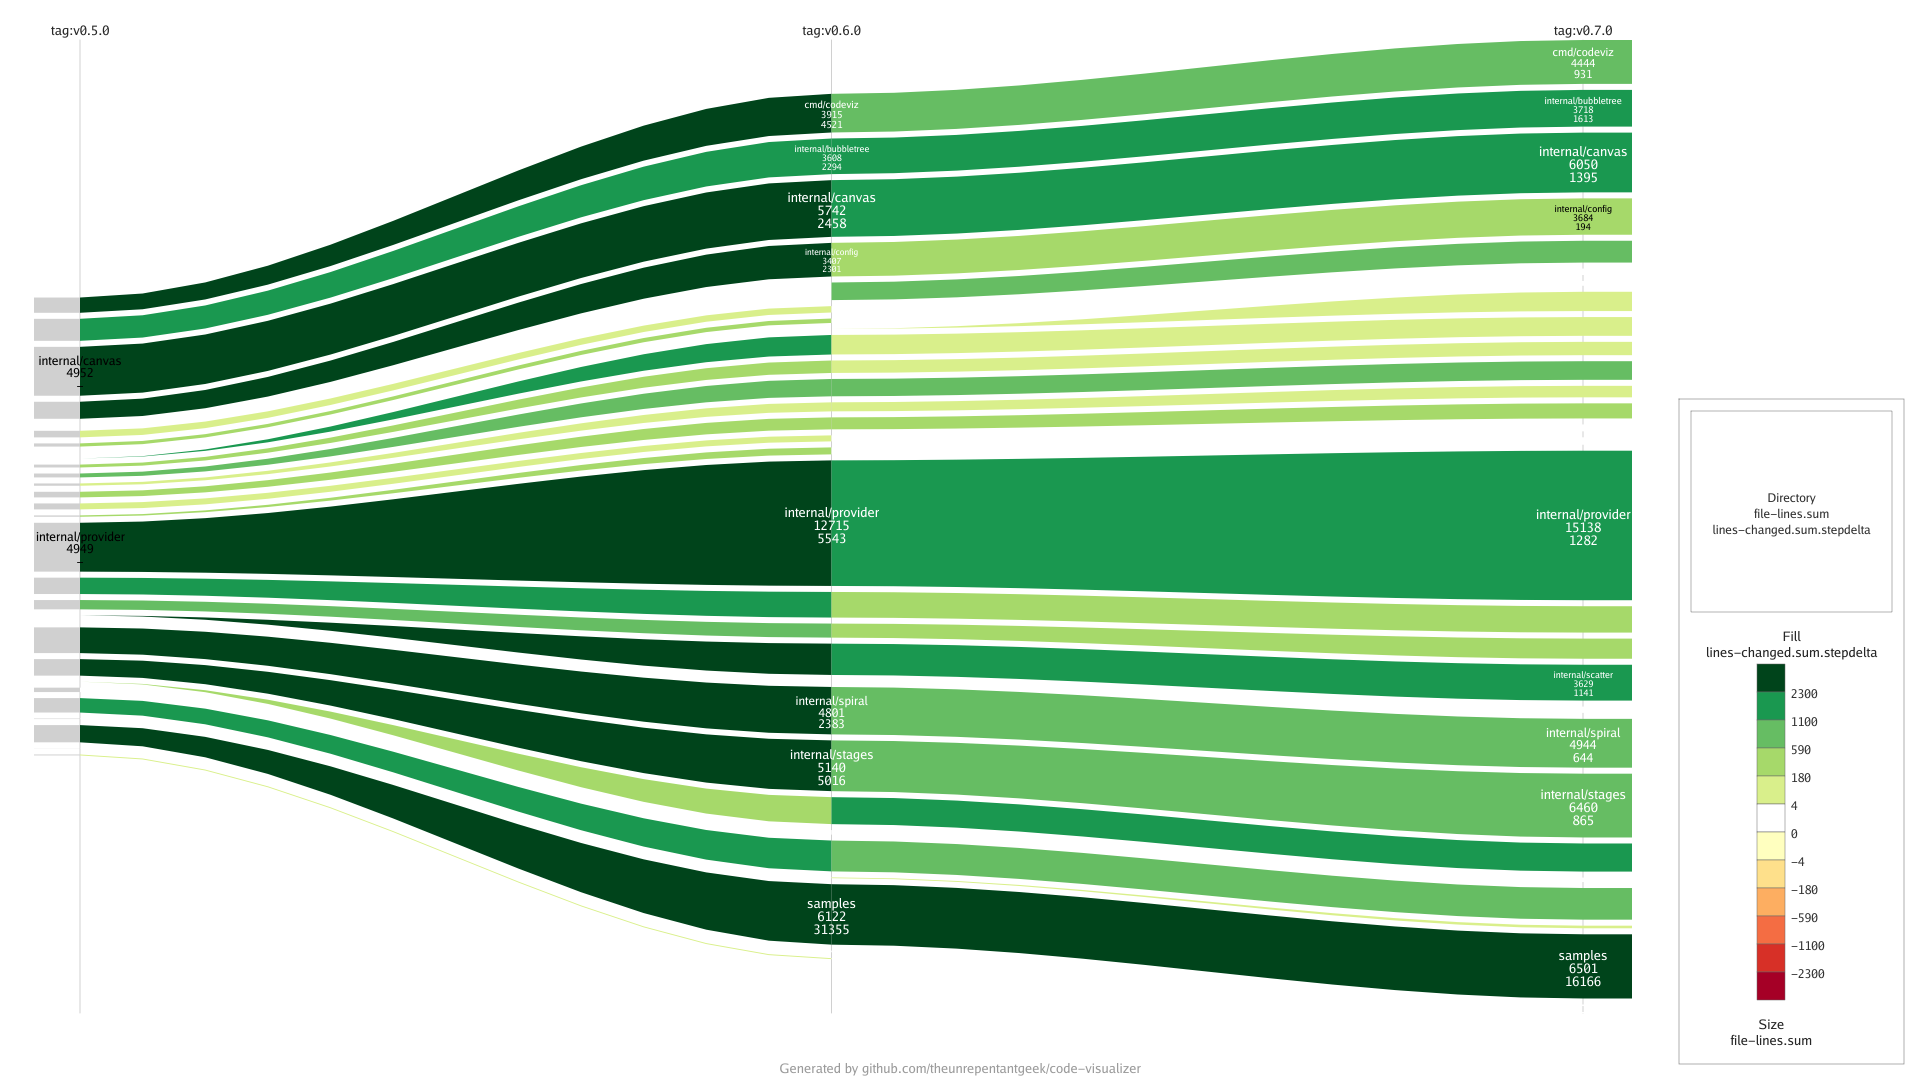
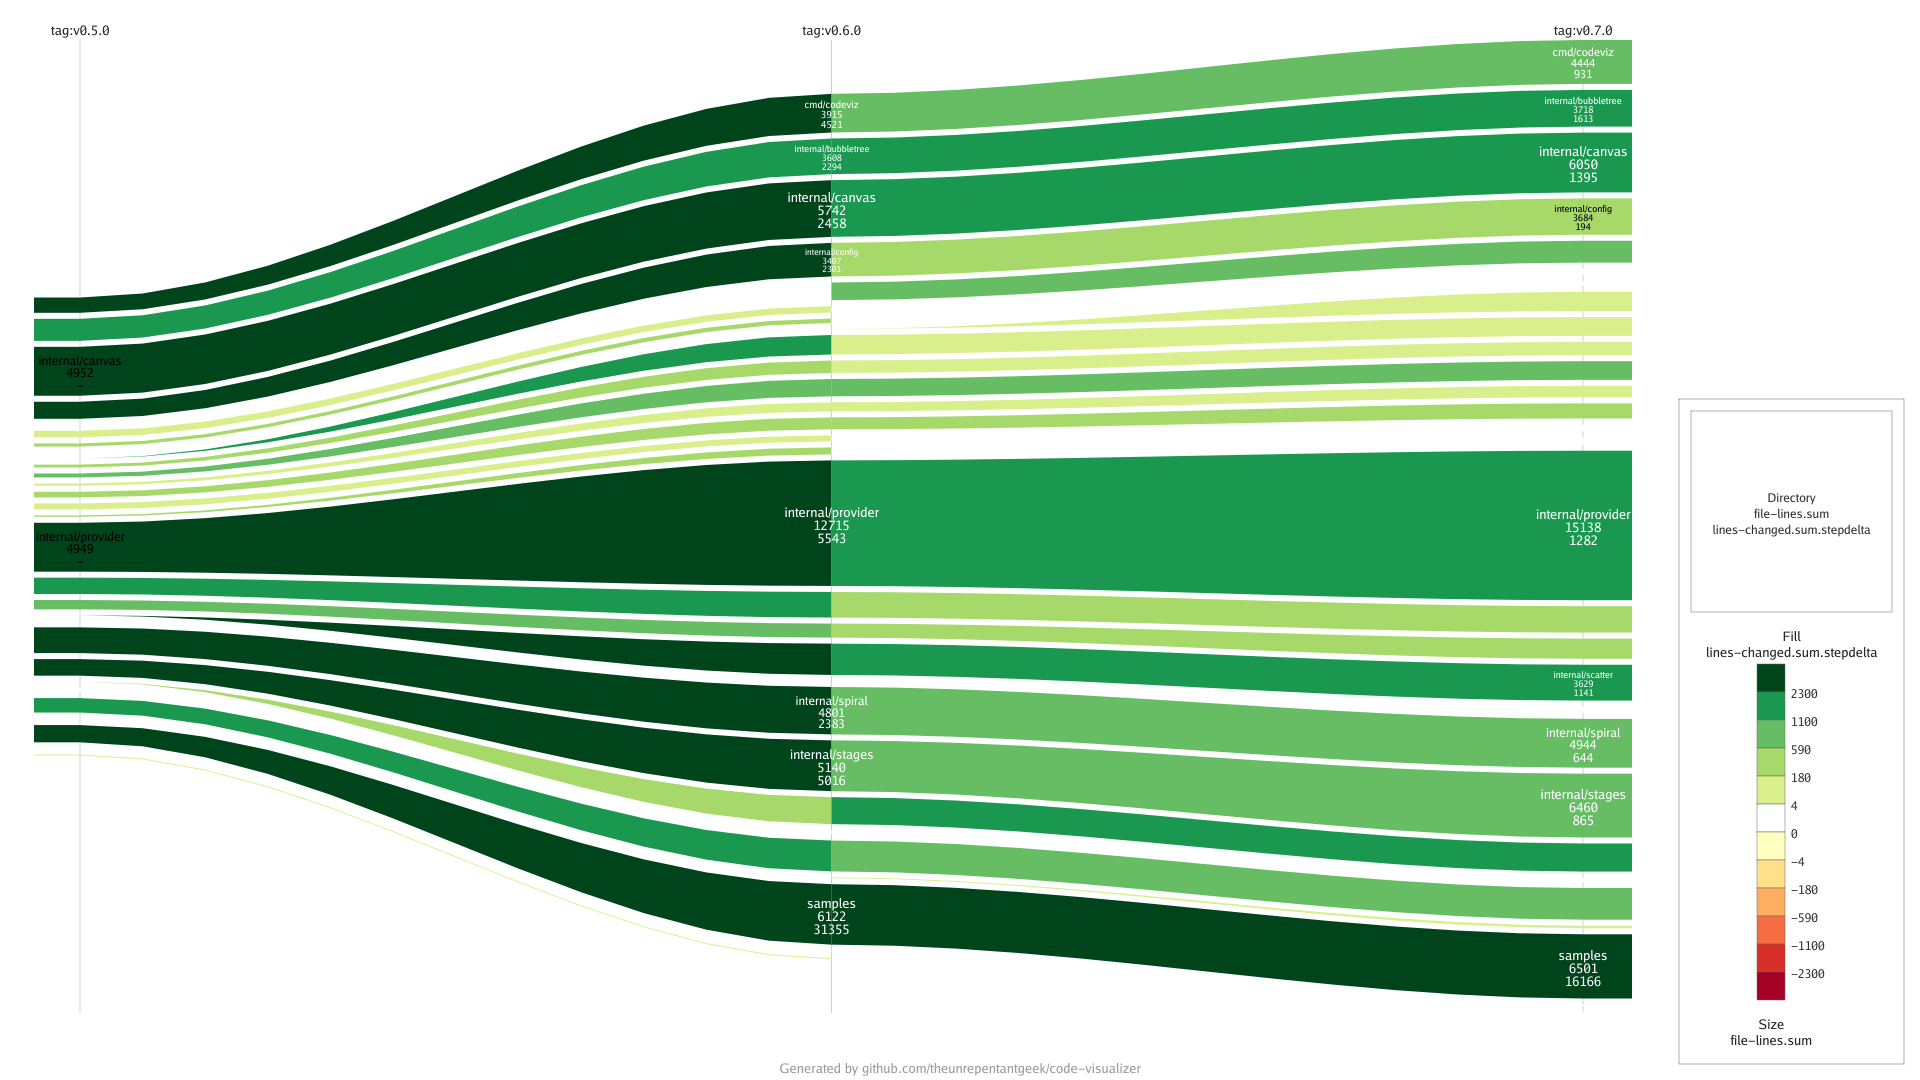
fix(alluvial): extend initial step delta bands
Copilot-Session: 1d4d4a1c-020a-48bd-9d79-39b25270a86d

Changed region(s): [[0.0, 0.275, 0.0625, 0.7028]]

diff --git a/internal/alluvial/render_test.go b/internal/alluvial/render_test.go
@@ -206,6 +206,48 @@ func TestRenderToCanvas_ExtendsEdgeBandsBehindCenteredLabels(t *testing.T) {
 	g.Expect(paths[5].Loops[0][0].X).To(BeNumerically("==", 100))
 }
 
+func TestRenderToCanvas_ExtendsMissingInitialFillWithPaletteMidpoint(t *testing.T) {
+	t.Parallel()
+	g := NewGomegaWithT(t)
+
+	const leftX = 20.0
+
+	fillInk := inks.NumericInk("fill", []float64{-1, 1}, palette.GetPalette(palette.GoodBad))
+	cv := alluvial.RenderToCanvas(alluvial.Layout{
+		Columns: []alluvial.ColumnLayout{
+			{
+				X: leftX,
+				Bands: []alluvial.Band{
+					{Path: "api", Top: 10, Bottom: 70, Width: 12, FillValue: 1},
+				},
+			},
+			{
+				X: 180,
+				Bands: []alluvial.Band{
+					{Path: "api", Top: 10, Bottom: 70, Width: 12, FillValue: 1, HasFillValue: true},
+				},
+			},
+		},
+	}, 200, 100, fillInk, "fill.stepdelta")
+	backend := mock.NewBackend()
+
+	g.Expect(cv.RenderTo(backend)).To(Succeed())
+
+	for _, call := range backend.Calls {
+		if call.Method != "DrawFilledPath" || len(call.Loops) != 1 || len(call.Loops[0]) != 4 {
+			continue
+		}
+
+		if call.Loops[0][0].X < leftX {
+			g.Expect(call.Fill).To(Equal(fillInk.Dip(inks.MeasureValue(1))))
+
+			return
+		}
+	}
+
+	t.Fatal("expected a left edge band extension")
+}
+
 func pathXBounds(paths []mock.Call) (minimum, maximum float64) {
 	minimum = paths[0].Loops[0][0].X
 	maximum = minimum

diff --git a/internal/alluvial/layout.go b/internal/alluvial/layout.go
@@ -94,7 +94,26 @@ func LayoutData(data Data, width, height int) Layout {
 		}
 	}
 
+	applyInitialBandFillValues(&layout, data)
+
 	return layout
+}
+
+func applyInitialBandFillValues(layout *Layout, data Data) {
+	if len(layout.Columns) < 2 || len(data.Columns) < 2 {
+		return
+	}
+
+	for bandIndex := range layout.Columns[0].Bands {
+		band := &layout.Columns[0].Bands[bandIndex]
+		if band.HasFillValue {
+			continue
+		}
+
+		if fillValue, ok := fillValueFor(data, data.Columns[1].Reference, band.Path); ok {
+			band.FillValue = fillValue
+		}
+	}
 }
 
 func fillValueFor(data Data, reference, directoryPath string) (float64, bool) {

diff --git a/internal/alluvial/layout_test.go b/internal/alluvial/layout_test.go
@@ -54,6 +54,7 @@ func TestLayoutData_UsesDestinationSnapshotFillValue(t *testing.T) {
 	}, 200, 100)
 
 	g.Expect(layout.Columns[0].Bands[0].HasFillValue).To(BeFalse())
+	g.Expect(layout.Columns[0].Bands[0].FillValue).To(Equal(float64(2)))
 	g.Expect(layout.Columns[1].Bands[0].FillValue).To(Equal(float64(2)))
 	g.Expect(layout.Columns[1].Bands[0].HasFillValue).To(BeTrue())
 	g.Expect(layout.Flows[0].FillValue).To(Equal(float64(2)))

diff --git a/internal/alluvial/render.go b/internal/alluvial/render.go
@@ -167,7 +167,7 @@ func addAlluvialEdgeColumnBands(
 				{X: right, Y: band.Bottom},
 				{X: left, Y: band.Bottom},
 			}},
-			Fill: alluvialBandInk(fillInk, band).Dip(inks.MeasureValue(band.FillValue)),
+			Fill: fillInk.Dip(inks.MeasureValue(band.FillValue)),
 		})
 	}
 }
